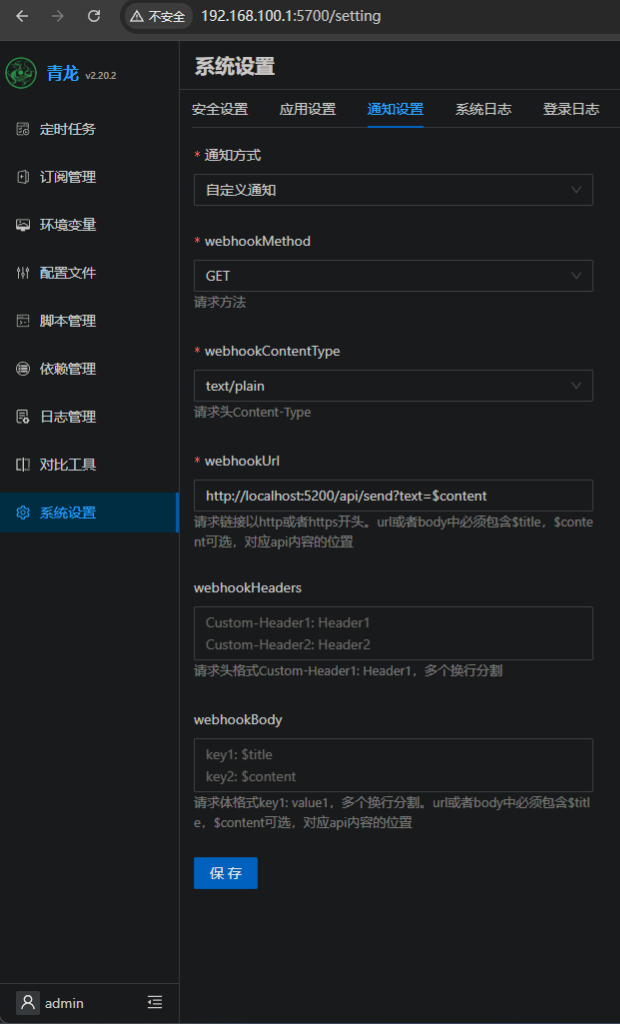
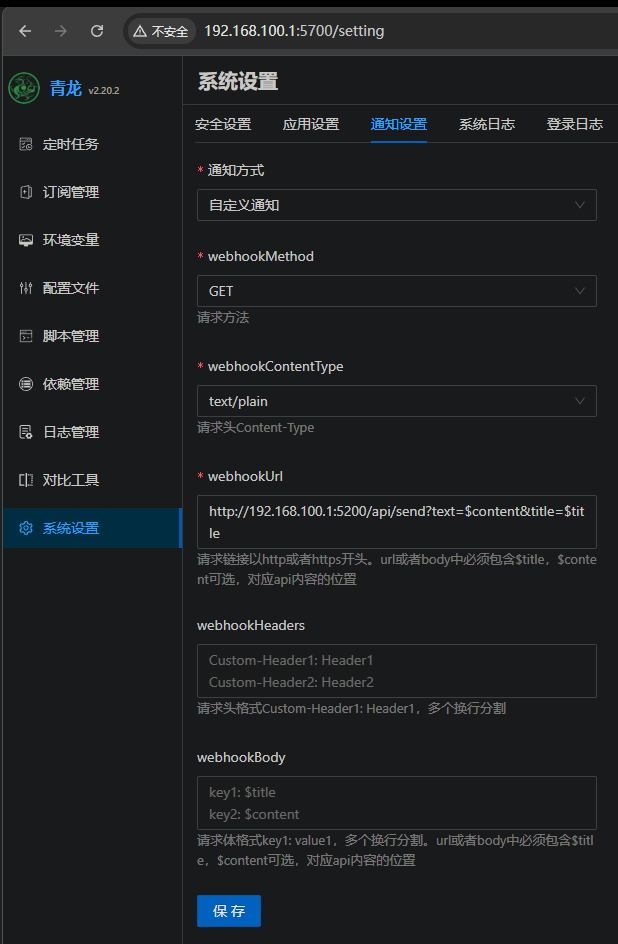
docs: update Qinglong screenshots and add title param to webhook URL

diff --git a/app/web.py b/app/web.py
@@ -640,6 +640,35 @@ HTML_TEMPLATE = """<!DOCTYPE html>
   @keyframes slideDown { from{transform:translateY(-20px);opacity:0} to{transform:translateY(0);opacity:1} }
   @keyframes fadeOut { from{opacity:1} to{opacity:0; visibility:hidden} }
   
+  .dialog-overlay {
+    position: fixed; top: 0; left: 0; width: 100%%; height: 100%%; z-index: 10000;
+    background: rgba(0,0,0,0.6); backdrop-filter: blur(4px);
+    display: flex; align-items: center; justify-content: center;
+    animation: fadeIn 0.2s ease-out;
+  }
+  @keyframes fadeIn { from{opacity:0} to{opacity:1} }
+  .dialog-box {
+    background: #1e1e2d; border: 1px solid rgba(255,255,255,0.1);
+    border-radius: 16px; padding: 28px 32px; max-width: 420px; width: 90%%;
+    box-shadow: 0 20px 60px rgba(0,0,0,0.6); color: #e0e0e0;
+    animation: scaleIn 0.2s ease-out;
+  }
+  @keyframes scaleIn { from{transform:scale(0.9);opacity:0} to{transform:scale(1);opacity:1} }
+  .dialog-title {
+    font-size: 16px; font-weight: 600; margin-bottom: 12px;
+    display: flex; align-items: center; gap: 8px;
+  }
+  .dialog-title.error { color: #ef4444; }
+  .dialog-title.warning { color: #f59e0b; }
+  .dialog-title.info { color: #6366f1; }
+  .dialog-body { font-size: 14px; line-height: 1.6; color: #aaa; margin-bottom: 24px; white-space: pre-line; }
+  .dialog-btn {
+    background: linear-gradient(135deg, #6366f1, #4f46e5); color: white;
+    border: none; padding: 10px 28px; border-radius: 8px; cursor: pointer;
+    font-size: 14px; font-weight: 500; float: right;
+  }
+  .dialog-btn:hover { opacity: 0.9; }
+  
   .img-upload-btn {
     background: #1e1e2d;
     border: 1px solid rgba(255,255,255,0.1);
@@ -906,6 +935,23 @@ def _render_logged_in():
       setTimeout(() => toast.remove(), 3000);
     }
 
+    function showDialog(msg, type='error') {
+      const overlay = document.createElement('div');
+      overlay.className = 'dialog-overlay';
+      const icons = { error: '❌', warning: '⚠', info: 'ℹ' };
+      const titles = { error: '发送失败', warning: '提示', info: '提示' };
+      overlay.innerHTML = `
+        <div class="dialog-box">
+          <div class="dialog-title ${type}">${icons[type] || '⚠'} ${titles[type] || '提示'}</div>
+          <div class="dialog-body">${msg}</div>
+          <button class="dialog-btn" onclick="this.closest('.dialog-overlay').remove()">确定</button>
+        </div>
+      `;
+      document.body.appendChild(overlay);
+      overlay.querySelector('.dialog-btn').focus();
+      overlay.addEventListener('click', (e) => { if (e.target === overlay) overlay.remove(); });
+    }
+
     async function saveAISettings() {
       const cfg = {
         enabled: aiEnabled,
@@ -1031,7 +1077,7 @@ def _render_logged_in():
       const text = textIpt.value.trim();
       if (!text) return;
       if (!to) {
-        alert(`\u26a0\ufe0f \u8bf7\u5148\u8f93\u5165\u6536\u4ef6\u4eba\u540d\u79f0\n\niLink API \u9650\u5236\uff1a\u7528\u6237\u9700\u8981\u5148\u7ed9\u4f60\u53d1\u4e00\u6761\u6d88\u606f\uff0c\u7cfb\u7edf\u624d\u80fd\u83b7\u53d6\u5176 user_id\u3002\n\u8bf7\u5728\u5de6\u4fa7\u8054\u7cfb\u4eba\u5217\u8868\u9009\u62e9\uff0c\u6216\u8f93\u5165\u5df2\u7ecf\u7ed9\u4f60\u53d1\u8fc7\u6d88\u606f\u7684\u8054\u7cfb\u4eba\u540d\u79f0`);
+        showDialog('请先输入收件人名称\n\niLink API 限制：用户需要先给你发一条消息，系统才能获取其 user_id。\n请在左侧联系人列表选择，或输入已经给你发过消息的联系人名称', 'warning');
         return;
       }
       
@@ -1048,10 +1094,10 @@ def _render_logged_in():
           msgsEl.scrollTo({ top: msgsEl.scrollHeight, behavior: 'smooth' });
         } else {
           const err = await res.json();
-          alert('发送失败: ' + err.error);
+          showDialog(err.error, 'error');
         }
       } catch(e) {
-        alert('网络错误');
+        showDialog('无法连接到服务器，请检查网络', 'error');
       }
       sendBtn.disabled = false;
       textIpt.focus();

diff --git a/app/bridge.py b/app/bridge.py
@@ -46,6 +46,9 @@ class WeChatBridge:
         self._running = False
         self._poll_thread: threading.Thread | None = None
         self.ai_manager = None  # 由 main.py 注入 AIChatManager 实例
+        # 每日发送计数器（微信风控 10 条/天）
+        # 结构: { user_id: { "date": "2026-04-12", "count": 5, "warned": False } }
+        self._daily_send_count: dict[str, dict] = {}
         db.init_db()  # 初始化 SQLite 消息库
         self._load_contacts()
 
@@ -292,6 +295,14 @@ class WeChatBridge:
                     "last_receive_time": now,
                     "reminded": False
                 }
+                # 用户发消息了，重置当日发送计数器
+                today = datetime.now().strftime("%Y-%m-%d")
+                if from_user in self._daily_send_count:
+                    entry = self._daily_send_count[from_user]
+                    if entry.get("date") == today:
+                        entry["count"] = 0
+                        entry["warned"] = False
+                        logger.info("用户 [%s] 回复了消息，重置当日发送计数器", from_user[:20])
                 should_save = True
                 
             if should_save:
@@ -370,6 +381,42 @@ class WeChatBridge:
 
     # ── 发送消息 ──
 
+    def _increment_send_count(self, user_id: str) -> int:
+        """增加当日发送计数，返回新的计数值"""
+        today = datetime.now().strftime("%Y-%m-%d")
+        entry = self._daily_send_count.get(user_id, {})
+        if entry.get("date") != today:
+            entry = {"date": today, "count": 0, "warned": False}
+        entry["count"] += 1
+        self._daily_send_count[user_id] = entry
+        return entry["count"]
+
+    def _check_and_warn_quota(self, user_id: str, context_token: str):
+        """检查是否触发 10 条风控阈值，如是则发送提醒"""
+        entry = self._daily_send_count.get(user_id, {})
+        if entry.get("count", 0) >= 10 and not entry.get("warned"):
+            entry["warned"] = True
+            warning_text = (
+                "⚠【系统提醒】\n"
+                "bot 已连续发送 10 条通知！"
+                "触发了微信风控自动屏蔽，后续消息无法发送。\n"
+                "请回复任意内容解除风控！"
+            )
+            try:
+                self.client.send_text(user_id, warning_text, context_token)
+                contact_name = self.contacts.get(user_id, user_id[:20])
+                self._record_message({
+                    "type": "send",
+                    "contact": contact_name,
+                    "user_id": user_id,
+                    "text": warning_text,
+                    "time": int(time.time()),
+                    "msg_id": f"warn_{time.time()}"
+                })
+                logger.warning("已向 [%s] 发送 10 条风控提醒", contact_name)
+            except Exception as e:
+                logger.error("发送风控提醒失败: %s", e)
+
     def send(self, to: str, text: str) -> dict:
         """
         发送消息的高级接口
@@ -394,6 +441,11 @@ class WeChatBridge:
                 "time": int(time.time()),
                 "msg_id": f"s_{time.time()}"
             })
+
+            # 检查当日发送计数，到 10 条时自动发送风控警告
+            count = self._increment_send_count(user_id)
+            logger.info("向 [%s] 发送消息 (%d/10 当日)", contact_name, count)
+            self._check_and_warn_quota(user_id, context_token)
             
             return {"ok": True, "result": result}
         except Exception as e:

diff --git a/README.md b/README.md
@@ -175,14 +175,14 @@ curl -X POST http://localhost:5200/api/push \
 - **通知方式**：`自定义通知`
 - **webhookMethod**：`GET`
 - **webhookContentType**：`text/plain`
-- **webhookUrl**：`http://你的IP:5200/api/send?text=$content` *(如果设置了密码，末尾加 `&token=凭证`)*
+- **webhookUrl**：`http://你的IP:5200/api/send?text=$content&title=$title` *(如果设置了密码，末尾加 `&token=凭证`)*
 - 其他选项保持默认留空。保存后点击测试，即可在微信中收到青龙的测试通知！
 
 <div align="center">
   <table>
     <tr>
       <td align="center"><img src="docs/assets/screenshot-qinglong-setting.png" alt="青龙面板通知设置" width="400"></td>
-      <td align="center"><img src="docs/assets/screenshot-wechat-notify.png" alt="微信收到通知效果" width="250"></td>
+      <td align="center"><img src="docs/assets/screenshot-wechat-notify.jpg" alt="微信收到通知效果" width="250"></td>
     </tr>
     <tr>
       <td align="center"><em>青龙面板通知设置</em></td>
